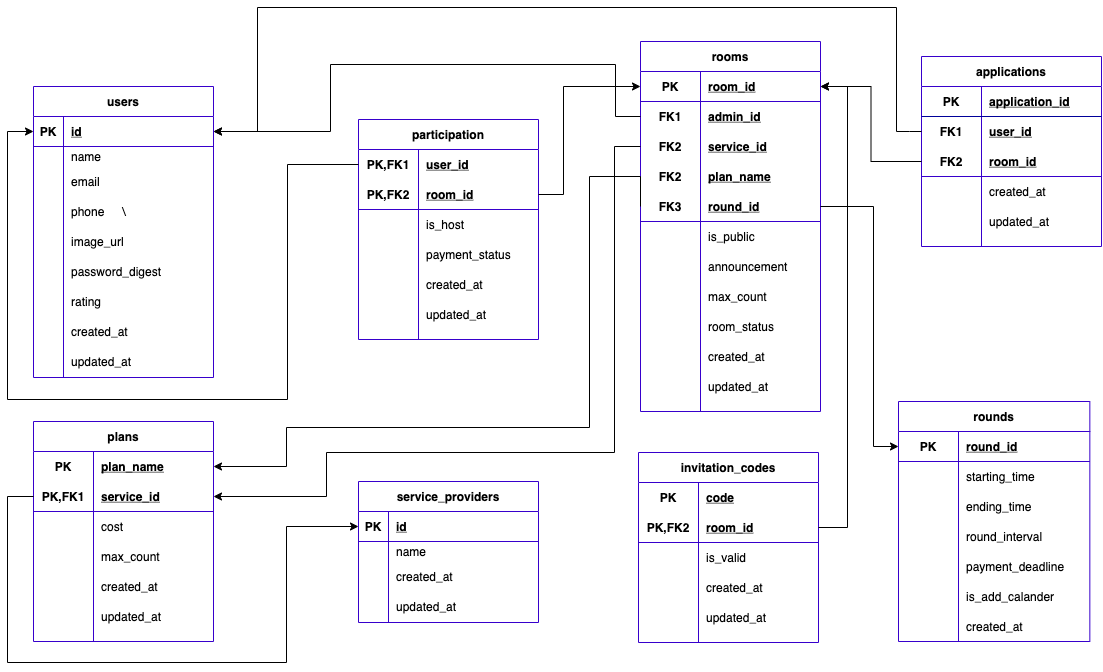
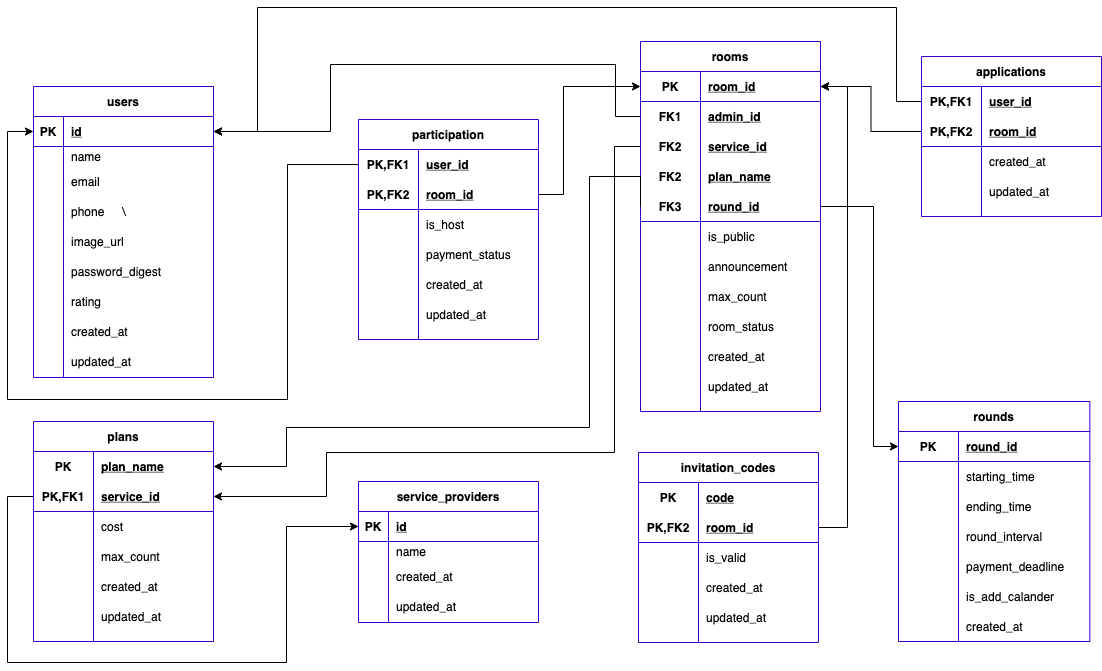
Update schema

diff --git a/go-server/go/model_application.go b/go-server/go/model_application.go
@@ -10,8 +10,6 @@ package swagger
 
 type Application struct {
 
-	ApplicationId int32 `json:"application_id,omitempty"`
-
 	UserId int32 `json:"user_id,omitempty"`
 
 	Name string `json:"name,omitempty"`
